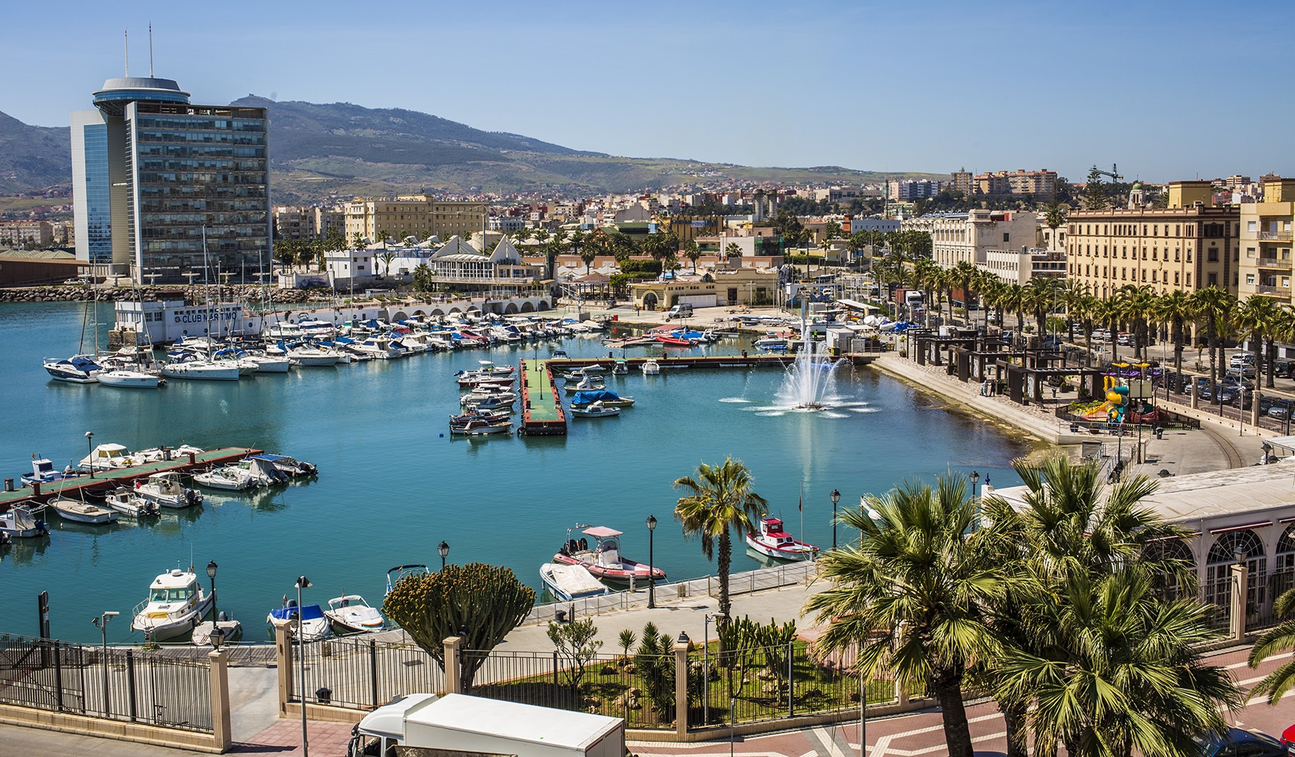
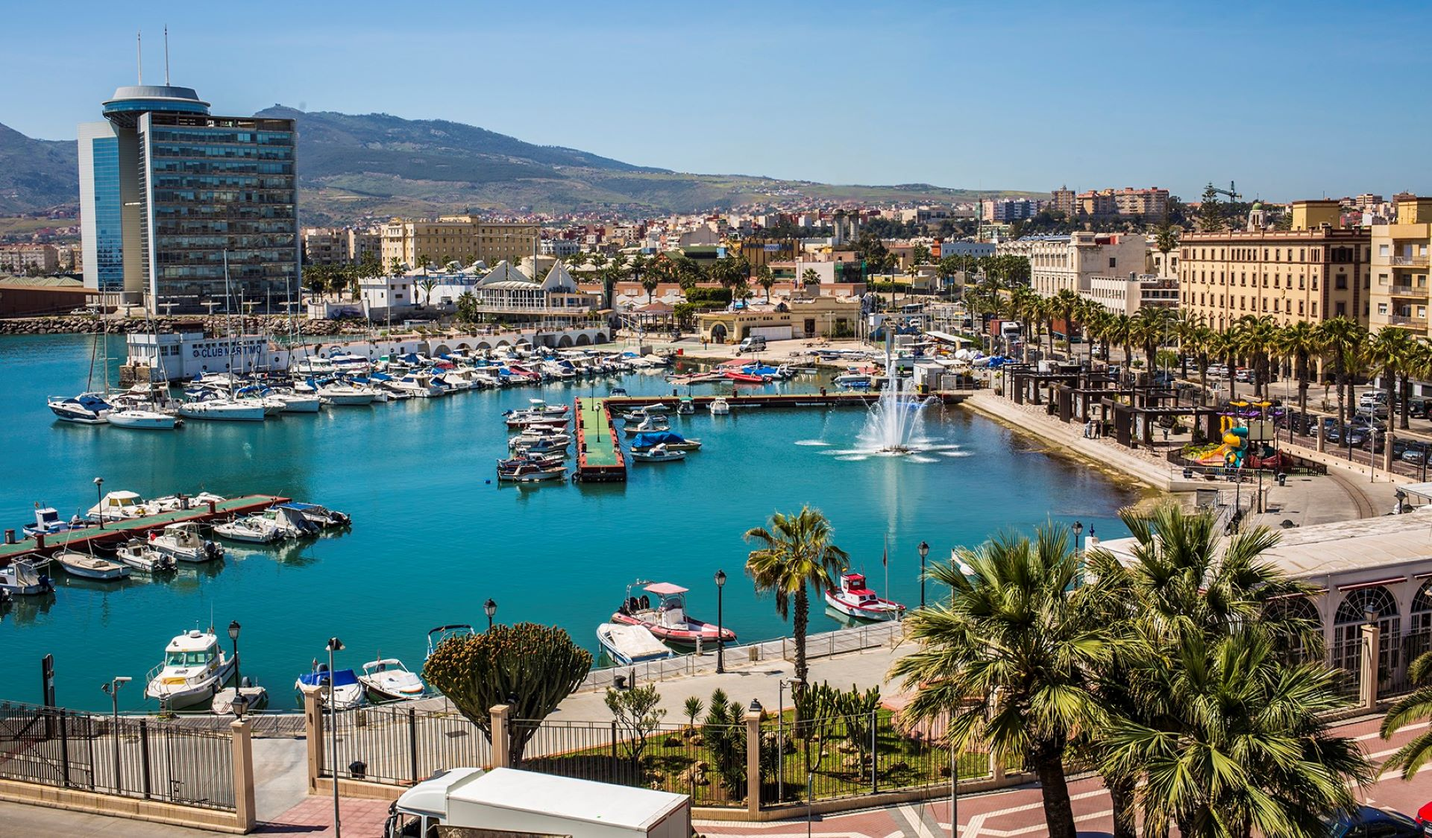
Finalmente funciona

diff --git a/Tema3/Proyecto3.2/Index.html b/Tema3/Proyecto3.2/Index.html
@@ -8,40 +8,34 @@
     </head>
     <body>
         <section>
-            <div id="firstImage">
-                <h1>MELILLA</h1>
-                <p>VISIT THIS CITY</p>
-                <img src="./Images/melilla1.jpg">
+            <div id="firstImage" style="background-image: url('./Images/melilla1.jpg');">
+                <h1>Melilla</h1>
+                <p>Visit this city</p>
             </div>
 
-            <div>
-                <h1>CIUDADELA</h1>
-                <p>El Rey Cagón</p>
-                <img src="./Images/ciudadela.jpg">
+            <div style="background-image: url('./Images/ciudadela.jpg');">
+                <h1>Citadel</h1>
+                <p>Melilla Citadel</p>
             </div>
 
-            <div>
-                <h1>MUSEO DE ARQUEOLOGÍA E HISTORIA</h1>
-                <p>El Rey Cagón</p>
-                <img src="./Images/museoARQUEOLOGIA.jpg">
+            <div style="background-image: url('./Images/museoARQUEOLOGIA.jpg');">
+                <h1>Museum of Archeology and History</h1>
+                <p>Melilla Museum</p>
             </div>
 
-            <div>
-                <h1>IGLESIA INMACULADA CONCEPCIÓN</h1>
-                <p>El Rey Cagón</p>
-                <img src="./Images/iglesia.jpg">
+            <div style="background-image: url('./Images/iglesia.jpg');">
+                <h1>Inmaculate Conception Church</h1>
+                <p>Melilla Inmaculate Conception</p>
             </div>
 
-            <div>
-                <h1>CUEVAS DEL CONVENTICO</h1>
-                <p>El Rey Cagón</p>
-                <img src="./Images/CuevasConventico.jpg">
+            <div style="background-image: url('./Images/CuevasConventico.jpg');">
+                <h1>Convent Caves</h1>
+                <p>Melilla Caves</p>
             </div>
 
-            <div>
-                <h1>BALUARTE DE LA CONCEPCIÓN</h1>
-                <p>El Rey Cagón</p>
-                <img src="./Images/melilla2.jpg">
+            <div style="background-image: url('./Images/asamblea2.jpg');">
+                <h1>Assembly</h1>
+                <p>Melilla Assembly</p>
             </div>
         </section>
     </body>

diff --git a/Tema3/Proyecto3.2/Style.css b/Tema3/Proyecto3.2/Style.css
@@ -14,17 +14,15 @@ section{
     overflow-y: scroll;
 }
 
-/*Le damos a las imágenes todo el ancho y todo el alto del navegador.*/
-img{
-    width: 100vw;
+/*Cuando detecte la parte superior de un div/imagen se posicionará sobre él.*/
+div{
+    scroll-snap-align: start;
+    width: 100%;
     height: 100vh; 
 }
 
-/*Cuando detecte la parte superior de un div se posicionará sobre él.*/
-div{
-    scroll-snap-align: start;
-}
-
+/*Usamos un id para que si es la primera imagen, posicionar el texto en el centro
+superior.*/
 #firstImage{
     & p, & h1{
         text-align: center;
@@ -32,6 +30,8 @@ div{
     }
 }
 
+/*Si el div es impar se alinea el texto a la derecha. En caso contrario aparece en
+la izquierda por defecto.*/
 div:nth-child(odd) {
     text-align: right;
 
@@ -44,11 +44,15 @@ div:nth-child(odd) {
 div h1{
     margin-bottom: 5px;
     font-weight: bold;
+    font-size: 40px;
+    color: azure;
 }
 
 div p{
     margin-top: 0;
     font-weight: bold;
+    font-size: 20px;
+    color: azure;
 }
 
 
